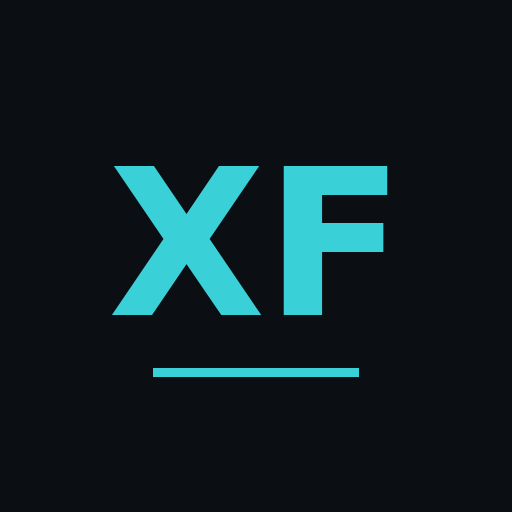
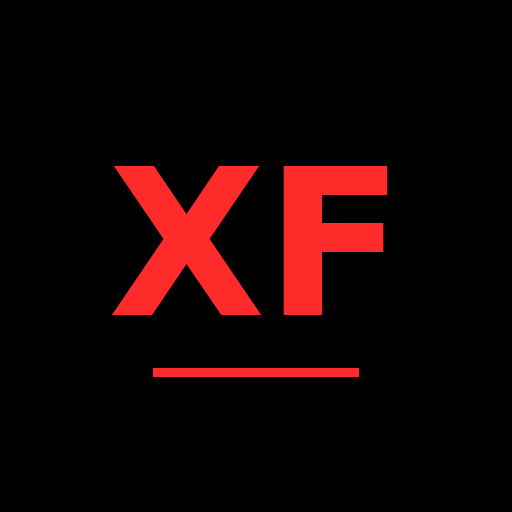
Xframe v3: tema negro/rojo, título X-FRAME ON AIR, nombres de ejercicios

Changed region(s): [[0.2188, 0.3125, 0.5, 0.625], [0.5312, 0.3125, 0.7812, 0.625], [0.2812, 0.7188, 0.7188, 0.75]]

diff --git a/index.html b/index.html
@@ -1,23 +1,23 @@
 <!DOCTYPE html>
 <html lang="es"><head><meta charset="utf-8">
 <meta name="viewport" content="width=device-width,initial-scale=1,viewport-fit=cover">
-<title>Xframe</title>
-<meta name="theme-color" content="#0b0e12">
+<title>X-FRAME ON AIR</title>
+<meta name="theme-color" content="#000000">
 <meta name="color-scheme" content="dark">
 <meta name="apple-mobile-web-app-capable" content="yes">
 <meta name="mobile-web-app-capable" content="yes">
 <meta name="apple-mobile-web-app-status-bar-style" content="black-translucent">
-<meta name="apple-mobile-web-app-title" content="Xframe">
+<meta name="apple-mobile-web-app-title" content="X-FRAME ON AIR">
 <link rel="apple-touch-icon" href="apple-touch-icon.png">
 <link rel="icon" type="image/png" href="icon-192.png">
 <link rel="manifest" href="manifest.webmanifest">
-<style>:root{--bg:#0b0e12;--card:#141a20;--card2:#1b232b;--line:#26313b;--tx:#e8eef3;--mu:#8d9aa6;--ac:#39d0d8;--acd:rgba(57,208,216,.14);--warn:#e07a6a;--safe-b:env(safe-area-inset-bottom,0px)}
+<style>:root{--bg:#000;--card:#0b0b0b;--card2:#141414;--line:#2e1414;--tx:#ff4d4d;--mu:#c26666;--ac:#ff2a2a;--acd:rgba(255,42,42,.12);--warn:#f2a33a;--safe-b:env(safe-area-inset-bottom,0px)}
 *{box-sizing:border-box;-webkit-tap-highlight-color:transparent}
 html,body{margin:0;background:var(--bg);color:var(--tx);font:17px/1.4 -apple-system,BlinkMacSystemFont,"Segoe UI",Roboto,"Helvetica Neue",Arial,sans-serif}
 body{padding-bottom:calc(84px + var(--safe-b))}
 body.timer-on{padding-bottom:calc(170px + var(--safe-b))}
-header{position:sticky;top:0;z-index:20;background:rgba(11,14,18,.96);border-bottom:1px solid var(--line);padding:calc(10px + env(safe-area-inset-top,0px)) 16px 10px;display:flex;align-items:center;justify-content:space-between}
-.logo{font-weight:900;letter-spacing:.18em;color:var(--ac);font-size:24px}
+header{position:sticky;top:0;z-index:20;background:rgba(0,0,0,.96);border-bottom:1px solid var(--line);padding:calc(10px + env(safe-area-inset-top,0px)) 16px 10px;display:flex;align-items:center;justify-content:space-between}
+.logo{font-weight:900;letter-spacing:.12em;color:var(--ac);font-size:21px;white-space:nowrap}
 .logo small{display:block;font-size:11px;letter-spacing:.16em;color:var(--mu);font-weight:600}
 .hbtn{background:var(--card2);color:var(--tx);border:1px solid var(--line);border-radius:12px;padding:10px 14px;font-size:15px;font-weight:600;position:relative}
 .hbtn .dot{position:absolute;top:-4px;right:-4px;width:12px;height:12px;border-radius:50%;background:var(--warn);border:2px solid var(--bg)}
@@ -28,11 +28,11 @@ h3{font-size:16px;margin:0 0 8px;color:var(--mu);text-transform:uppercase;letter
 .card{background:var(--card);border:1px solid var(--line);border-radius:16px;padding:14px;margin-bottom:12px}
 .days{display:flex;gap:6px;overflow-x:auto;padding-bottom:4px;margin-bottom:12px}
 .days button{flex:1 0 auto;min-width:50px;height:52px;border-radius:12px;border:1px solid var(--line);background:var(--card);color:var(--tx);font-size:16px;font-weight:700}
-.days button.on{background:var(--ac);color:#071214;border-color:var(--ac)}
+.days button.on{background:var(--ac);color:#000;border-color:var(--ac)}
 .days button .td{display:block;font-size:10px;font-weight:600;opacity:.8}
 .dayhead .t{font-size:13px;color:var(--ac);font-weight:700;letter-spacing:.1em;text-transform:uppercase}
 .note{border-left:3px solid var(--ac);background:var(--acd);padding:10px 12px;border-radius:8px;font-size:15px;margin:8px 0}
-.warn{border-left:3px solid var(--warn);background:rgba(224,122,106,.12);padding:10px 12px;border-radius:8px;font-size:15px;margin:8px 0}
+.warn{border-left:3px solid var(--warn);background:rgba(242,163,58,.12);padding:10px 12px;border-radius:8px;font-size:15px;margin:8px 0}
 .grp{font-size:13px;color:var(--ac);font-weight:700;letter-spacing:.08em;text-transform:uppercase;margin:16px 4px 6px}
 .ex .num{color:var(--mu);font-weight:700;font-size:14px}
 .ex .name{font-size:19px;font-weight:700;margin:2px 0}
@@ -40,27 +40,27 @@ h3{font-size:16px;margin:0 0 8px;color:var(--mu);text-transform:uppercase;letter
 .chip{display:inline-flex;align-items:center;gap:6px;border:1px solid var(--line);background:var(--card2);border-radius:999px;padding:6px 12px;font-size:14px;margin:8px 6px 0 0;color:var(--tx)}
 .chip.up{border-color:var(--ac);color:var(--ac);font-weight:700}
 button.chip{min-height:40px}
-.up-ic{display:inline-flex;align-items:center;justify-content:center;width:26px;height:26px;border-radius:50%;background:var(--ac);color:#071214;font-weight:900;font-size:15px;vertical-align:middle;margin-left:6px}
+.up-ic{display:inline-flex;align-items:center;justify-content:center;width:26px;height:26px;border-radius:50%;background:var(--ac);color:#000;font-weight:900;font-size:15px;vertical-align:middle;margin-left:6px}
 details{margin-top:8px}
 summary{color:var(--ac);font-size:15px;font-weight:600;padding:6px 0;cursor:pointer}
 details ul{margin:6px 0;padding-left:20px;font-size:15px}
 .set{display:grid;grid-template-columns:52px 1fr 1fr 58px;gap:8px;align-items:center;margin-top:10px}
 .set .lab{font-weight:800;font-size:15px;text-align:center;border-radius:10px;padding:8px 0;background:var(--card2);color:var(--mu)}
-.set .lab.ts{background:var(--ac);color:#071214}
-.set input{width:100%;height:52px;border-radius:12px;border:1px solid var(--line);background:#0e1318;color:var(--tx);font-size:21px;font-weight:700;text-align:center;padding:0 4px}
+.set .lab.ts{background:var(--ac);color:#000}
+.set input{width:100%;height:52px;border-radius:12px;border:1px solid var(--line);background:#050505;color:var(--tx);font-size:21px;font-weight:700;text-align:center;padding:0 4px}
 .set input:focus{outline:none;border-color:var(--ac)}
 .set input.bad{border-color:var(--warn)}
 .set .ok{height:52px;border-radius:12px;border:1px solid var(--line);background:var(--card2);color:var(--mu);font-size:24px;font-weight:900}
-.set.done .ok{background:var(--ac);color:#071214;border-color:var(--ac)}
-.set.done input{border-color:rgba(57,208,216,.5)}
+.set.done .ok{background:var(--ac);color:#000;border-color:var(--ac)}
+.set.done input{border-color:rgba(255,42,42,.5)}
 .sethint{grid-column:2 / 5;font-size:13px;color:var(--mu);margin-top:-4px}
 .colh{display:grid;grid-template-columns:52px 1fr 1fr 58px;gap:8px;font-size:12px;color:var(--mu);text-align:center;margin-top:10px;text-transform:uppercase;letter-spacing:.06em}
-.btn{display:block;width:100%;min-height:54px;border-radius:14px;border:1px solid var(--ac);background:var(--ac);color:#071214;font-size:18px;font-weight:800;margin:8px 0}
+.btn{display:block;width:100%;min-height:54px;border-radius:14px;border:1px solid var(--ac);background:var(--ac);color:#000;font-size:18px;font-weight:800;margin:8px 0}
 .btn.sec{background:transparent;color:var(--ac)}
 .btn.ghost{background:var(--card2);border-color:var(--line);color:var(--tx)}
 .btn.danger{background:transparent;border-color:var(--warn);color:var(--warn)}
 .row{display:flex;gap:8px}.row>*{flex:1}
-nav{position:fixed;left:0;right:0;bottom:0;z-index:30;background:rgba(14,18,23,.98);border-top:1px solid var(--line);display:flex;padding-bottom:var(--safe-b)}
+nav{position:fixed;left:0;right:0;bottom:0;z-index:30;background:rgba(0,0,0,.98);border-top:1px solid var(--line);display:flex;padding-bottom:var(--safe-b)}
 nav button{flex:1;height:68px;background:none;border:none;color:var(--mu);font-size:13px;font-weight:700}
 nav button .i{display:block;font-size:22px;line-height:1.2}
 nav button.on{color:var(--ac)}
@@ -69,14 +69,14 @@ nav button.on{color:var(--ac)}
 #timer .tt{font-size:34px;font-weight:900;font-variant-numeric:tabular-nums;color:var(--ac);min-width:92px}
 #timer .tl{flex:1;min-width:0;font-size:12px;color:var(--mu);line-height:1.25;display:-webkit-box;-webkit-line-clamp:3;-webkit-box-orient:vertical;overflow:hidden}
 #timer button{height:48px;min-width:48px;border-radius:12px;border:1px solid var(--line);background:var(--card);color:var(--tx);font-size:15px;font-weight:700}
-#timer.end{background:var(--ac)} #timer.end .tt,#timer.end .tl{color:#071214}
-#banner{position:fixed;top:calc(12px + env(safe-area-inset-top,0px));left:12px;right:12px;z-index:50;background:#0e1a1c;border:2px solid var(--ac);border-radius:18px;padding:16px;display:none;box-shadow:0 10px 40px rgba(0,0,0,.6)}
+#timer.end{background:var(--ac)} #timer.end .tt,#timer.end .tl{color:#000}
+#banner{position:fixed;top:calc(12px + env(safe-area-inset-top,0px));left:12px;right:12px;z-index:50;background:#120404;border:2px solid var(--ac);border-radius:18px;padding:16px;display:none;box-shadow:0 10px 40px rgba(0,0,0,.6)}
 #banner.on{display:block;animation:pop .35s ease}
 #banner .bt{font-size:22px;font-weight:900;color:var(--ac)}
 @keyframes pop{from{transform:translateY(-20px);opacity:0}to{transform:none;opacity:1}}
-#toast{position:fixed;left:50%;transform:translateX(-50%);bottom:calc(160px + var(--safe-b));z-index:60;background:var(--tx);color:#071214;padding:10px 16px;border-radius:12px;font-weight:700;display:none;max-width:90%;text-align:center}
+#toast{position:fixed;left:50%;transform:translateX(-50%);bottom:calc(160px + var(--safe-b));z-index:60;background:var(--tx);color:#000;padding:10px 16px;border-radius:12px;font-weight:700;display:none;max-width:90%;text-align:center}
 .field{display:flex;flex-direction:column;gap:4px;margin-bottom:10px;font-size:14px;color:var(--mu)}
-.field input,.field select{height:52px;border-radius:12px;border:1px solid var(--line);background:#0e1318;color:var(--tx);font-size:19px;padding:0 12px;width:100%}
+.field input,.field select{height:52px;border-radius:12px;border:1px solid var(--line);background:#050505;color:var(--tx);font-size:19px;padding:0 12px;width:100%}
 .stats{display:grid;grid-template-columns:1fr 1fr;gap:8px}
 .stat{background:var(--card2);border-radius:12px;padding:10px 12px}
 .stat .v{font-size:22px;font-weight:800}
@@ -89,18 +89,18 @@ svg text{fill:var(--mu);font-size:10px}
 .hx .r{color:var(--mu);font-size:14px;text-align:right}
 .cfg{display:grid;grid-template-columns:1fr 1fr;gap:8px;margin-top:6px}
 .cfg label{font-size:12px;color:var(--mu)}
-.cfg select,.cfg input{width:100%;height:46px;border-radius:10px;border:1px solid var(--line);background:#0e1318;color:var(--tx);font-size:17px;padding:0 8px}
+.cfg select,.cfg input{width:100%;height:46px;border-radius:10px;border:1px solid var(--line);background:#050505;color:var(--tx);font-size:17px;padding:0 8px}
 .cool{display:flex;justify-content:space-between;align-items:center}
 .cool .ok{width:58px;height:52px;border-radius:12px;border:1px solid var(--line);background:var(--card2);color:var(--mu);font-size:24px;font-weight:900}
-.cool.done .ok{background:var(--ac);color:#071214}
+.cool.done .ok{background:var(--ac);color:#000}
 </style></head>
 <body>
-<header><div class="logo">XFRAME<small>ON AIR v2</small></div><button class="hbtn" data-tab="ajustes">💾 Copia<span class="dot" id="bkdot" style="display:none"></span></button></header>
+<header><div class="logo">X-FRAME ON AIR</div><button class="hbtn" data-tab="ajustes">💾 Copia<span class="dot" id="bkdot" style="display:none"></span></button></header>
 <main></main>
 <div id="timer"><div class="tt" id="tt">0:00</div><div class="tl" id="tl"></div><button onclick="XFt(-15)">−15</button><button onclick="XFt(15)">+15</button><button onclick="XFt(0)">✕</button></div>
 <div id="banner"></div><div id="toast"></div>
 <nav><button data-tab="entreno"><span class="i">🏋</span>Entreno</button><button data-tab="peso"><span class="i">⚖</span>Peso</button><button data-tab="historial"><span class="i">📈</span>Historial</button><button data-tab="ajustes"><span class="i">⚙</span>Ajustes</button></nav>
-<script>// X-FRAME ON AIR v2 — transcrito de /workspace/xframe/X-FRAME_ON_AIR_v2.txt
+<script>// X-FRAME ON AIR v2 — rutina oficial, transcrita de /workspace/xframe/X-FRAME_ON_AIR_v2.txt
 // S(tipo, reps, RIR, nota, % de descarga respecto a la serie anterior)
 function S(t,reps,rir,note,pct){var m=String(reps).match(/(\d+)\D+(\d+)/);return{t:t,reps:reps,rir:rir,note:note||'',pct:(pct===undefined?null:pct),min:m?+m[1]:null,max:m?+m[2]:null};}
 var PROTOCOLO=[
@@ -115,12 +115,12 @@ var PROTOCOLO=[
 var ROUTINE=[
 {k:'lun',dow:1,day:'Lunes',title:'PUSH A',sub:'Pecho · Deltoides lateral · Tríceps · Core',ex:[
  {id:'lun01',n:'Press inclinado 30° con mancuernas',eq:'Mancuernas · Pecho superior · Ejercicio principal',warm:'A1 (10–12 × 50 %) · A2 (5 × 70 %) · A3 (2 × 85–90 %)',cues:['Bajar controlado hasta notar estiramiento del pecho, codos a ~45–60°.'],sets:[S('TS','6–8','0','RIR 0 técnico, sin rest-pause (con mancuernas pesadas no es seguro)'),S('BO1','8–10','1','mancuernas un escalón más ligeras (~−10 %)',10),S('BO2','8–10','1','un escalón más ligeras que el BO1 (−10–20 %)',15)],rest:'2–3 min',restS:150,inc:2,jump:2},
- {id:'lun02',n:'Press de banca convergente',eq:'Hammer Strength · Pecho medio',warm:'1 × 5 reps al 70 %',cues:[],sets:[S('TS','6–8','0'),S('BO','8–10','1','−10 %',10)],rest:'2–3 min',restS:150},
+ {id:'lun02',n:'Press de banca convergente plano',eq:'Hammer Strength · Pecho medio · Banco plano',warm:'1 × 5 reps al 70 %',cues:[],sets:[S('TS','6–8','0'),S('BO','8–10','1','−10 %',10)],rest:'2–3 min',restS:150},
  {id:'lun03',n:'Pec-deck / aperturas en máquina',eq:'Life Fitness / Gym80 · Pectoral',warm:'',cues:[],sets:[S('TS','8–10','0','+ 3–5 parciales en estiramiento'),S('BO','10–12','1','−15 %',15)],rest:'90–120 s',restS:105},
  {id:'lun04',n:'Elevación lateral unilateral en polea baja',eq:'Deltoides lateral',warm:'1 × 6 reps ligeras con el brazo izquierdo',cues:[],uni:'por brazo',sets:[S('TS','8–10','0','por brazo · + 3–5 parciales abajo, si son seguras'),S('BO','10–12','1','por brazo · −15 %',15)],rest:'90–120 s',restS:105},
  {id:'lun05',n:'Elevación lateral en máquina',eq:'Máquina · Deltoides lateral',warm:'',cues:[],sets:[S('TS','8–10','0'),S('BO','10–12','1','−15 %',15)],rest:'90–120 s',restS:105},
  {id:'lun06',n:'Extensión de tríceps overhead en polea',eq:'Cabeza larga del tríceps',warm:'1 × 6 reps al 70 %',cues:[],sets:[S('TS','8–10','0','+ 3–5 parciales en estiramiento, si son seguras'),S('BO','10–12','1','−10 %',10)],rest:'90–120 s',restS:105},
- {id:'lun07',n:'Pushdown en polea (nuevo)',eq:'Barra recta o cuerda · Cabeza lateral del tríceps',warm:'',cues:[],sets:[S('TS','10–12','0','codos fijos al costado'),S('BO','12–15','1','−15 %',15)],rest:'90 s',restS:90},
+ {id:'lun07',n:'Pushdown unilateral en polea',eq:'Agarre a una mano · Cabeza lateral del tríceps',warm:'',cues:['Empezar por el brazo izquierdo; el derecho iguala las repeticiones limpias.'],uni:'por brazo',sets:[S('TS','10–12','0','por brazo · codo fijo al costado'),S('BO','12–15','1','por brazo · −15 %',15)],rest:'90 s',restS:90},
  {id:'lun08',n:'Crunch abdominal en máquina',eq:'Gym80 · Core',warm:'',cues:[],sets:[S('TS','10–12','0'),S('BO','12–15','1','% no indicado en la rutina',12.5)],rest:'60–90 s',restS:75}
 ]},
 {k:'mar',dow:2,day:'Martes',title:'PULL A',sub:'Dorsales · Espalda alta · Deltoides posterior · Bíceps · Antebrazo',ex:[
@@ -143,16 +143,16 @@ var ROUTINE=[
 {k:'jue',dow:4,day:'Jueves',title:'UPPER BODY',sub:'Hombros · Dorsal · Espalda alta · Deltoides posterior · Pecho superior · Core',ex:[
  {id:'jue01',n:'Press de hombros en máquina',eq:'Hammer Strength / Gym80 · Deltoides anterior',warm:'A1 (10–12 × 50 %) · A2 (5 × 70 %) · A3 (2 × 85 %)',cues:['Rest-pause solo si no compromete la estabilidad del hombro.'],sets:[S('TS','6–8','0','RIR 0 técnico'),S('BO','8–10','1','−10 %',10)],rest:'2–3 min',restS:150},
  {id:'jue02',n:'Remo alto isolateral de palanca (remo-jalón)',eq:'Máquina de discos · Dorsal y espalda alta',warm:'1 × 5 reps al 70 %',cues:['Tirar de arriba hacia abajo y atrás, codos hacia las costillas, pecho alto, estiramiento completo arriba.'],sets:[S('TS','6–8','0'),S('BO','8–10','1','−10 %',10)],rest:'2–3 min',restS:150},
- {id:'jue03',n:'Remo bajo isolateral de palanca, unilateral (nuevo)',eq:'Hammer Strength Iso-Lateral Low Row · Agarre bajo · Dorsal',warm:'',cues:['Pecho apoyado en el pad, un brazo cada vez.','Codo pegado al cuerpo, tirar hacia la cadera, estiramiento completo delante.','Empezar por el lado izquierdo.'],uni:'por lado',sets:[S('TS','8–10','0','por lado'),S('BO','10–12','1','por lado · −10 %',10)],rest:'2 min',restS:120},
+ {id:'jue03',n:'Remo bajo isolateral de palanca, unilateral',eq:'Hammer Strength Iso-Lateral Low Row · Agarre bajo · Dorsal',warm:'',cues:['Pecho apoyado en el pad, un brazo cada vez.','Codo pegado al cuerpo, tirar hacia la cadera, estiramiento completo delante.','Empezar por el lado izquierdo.'],uni:'por lado',sets:[S('TS','8–10','0','por lado'),S('BO','10–12','1','por lado · −10 %',10)],rest:'2 min',restS:120},
  {id:'jue04',n:'Press inclinado 30° en multipower',eq:'Multipower · Pecho superior',warm:'1 × 5 reps al 70 %',cues:['Bajar a la parte alta del pecho, pausa breve sin rebotar.'],sets:[S('TS','6–8','0'),S('BO1','8–10','1','−15 %',15),S('BO2','8–10','1','−10–20 % respecto al BO1',15)],rest:'2–3 min',restS:150},
  {id:'jue05',n:'Elevación lateral en máquina',eq:'Máquina · Deltoides lateral',warm:'',cues:[],sets:[S('TS','8–10','0','+ 3–5 parciales abajo, si son seguras'),S('BO','10–12','1','−15 %',15)],rest:'90–120 s',restS:105},
- {id:'jue06',n:'Pec-deck invertido o face pull (nuevo)',eq:'Life Fitness / Gym80 o polea · Deltoides posterior',warm:'',cues:[],sets:[S('TS','12–15','0','+ 3–5 parciales controladas'),S('BO','15–20','1','−15 %',15)],rest:'90 s',restS:90},
+ {id:'jue06',n:'Pec-deck invertido o face pull',eq:'Life Fitness / Gym80 o polea · Deltoides posterior',warm:'',cues:[],sets:[S('TS','12–15','0','+ 3–5 parciales controladas'),S('BO','15–20','1','−15 %',15)],rest:'90 s',restS:90},
  {id:'jue07',n:'Crunch abdominal en máquina',eq:'Gym80 · Core',warm:'',cues:[],sets:[S('TS','10–12','0'),S('BO','12–15','1','% no indicado en la rutina',12.5)],rest:'60–90 s',restS:75}
 ]},
 {k:'vie',dow:5,day:'Viernes',title:'LEGS B',sub:'Cadena posterior · Isquios · Cuádriceps · Gemelos',ex:[
  {id:'vie01',n:'Peso muerto rumano',eq:'Multipower / máquina de palanca guiada',warm:'A1 (10–12 × 50 %) · A2 (5 × 70 %) · A3 (2 × 85–90 %)',cues:[],sets:[S('TS','6–8','1','RIR 1 recomendado, sin sacrificar técnica (sin rest-pause)'),S('BO','8–10','1–2','−10 %',10)],rest:'2–3 min',restS:150},
  {id:'vie02',n:'Curl femoral tumbado',eq:'Life Fitness / Gym80 · Isquios',warm:'1 × 5 reps al 70 %',cues:[],sets:[S('TS','8–10','0','+ 3–5 parciales en estiramiento, si son seguras'),S('BO1','10–12','1','−15 %',15),S('BO2','10–12','1','−10–20 % respecto al BO1',15)],rest:'90–120 s',restS:105},
- {id:'vie03',n:'Prensa inclinada unilateral',eq:'Hammer Strength / Gym80 · Cuádriceps',warm:'',cues:[],uni:'por pierna',sets:[S('TS','8–10','0','por pierna · RIR 0 técnico'),S('BO','10–12','1','por pierna · −15 %',15)],rest:'2 min',restS:120},
+ {id:'vie03',n:'Prensa inclinada a 45°',eq:'Hammer Strength · Cuádriceps · Bilateral (dos piernas)',warm:'',cues:['Pies a la anchura de la cadera en la plataforma, bajar controlado hasta la máxima profundidad sin despegar la zona lumbar del respaldo.'],sets:[S('TS','8–10','0'),S('BO','10–12','1','−15 %',15)],rest:'2 min',restS:120},
  {id:'vie04',n:'Extensión de cuádriceps',eq:'Gym80',warm:'',cues:[],sets:[S('TS','10–12','0'),S('BO','12–15','1','−15 %',15)],rest:'90–120 s',restS:105},
  {id:'vie05',n:'Elevación de gemelos sentado',eq:'Life Fitness / Gym80',warm:'',cues:[],sets:[S('TS','10–12','0','+ 3–5 parciales abajo, si son seguras'),S('BO1','12–15','1','−15 %',15),S('BO2','12–15','1','−10–20 % respecto al BO1',15)],rest:'90–120 s',restS:105}
 ]},
@@ -246,7 +246,7 @@ function startTimer(sec,label){if(!sec)return;tm.end=Date.now()+sec*1000;tm.labe
   document.body.classList.add('timer-on');$('#timer').classList.add('on');$('#timer').classList.remove('end');
   clearInterval(tm.iv);tm.iv=setInterval(tick,250);tick();}
 function tick(){var left=(tm.end-Date.now())/1000;$('#tt').textContent=mmss(left);$('#tl').innerHTML=esc(tm.label);
-  if(left<=0&&!tm.fired){tm.fired=true;$('#timer').classList.add('end');$('#tt').textContent='¡YA!';beep();vib([300,150,300,150,300]);notify('XFRAME · Descanso terminado','A por la siguiente serie: '+tm.label);
+  if(left<=0&&!tm.fired){tm.fired=true;$('#timer').classList.add('end');$('#tt').textContent='¡YA!';beep();vib([300,150,300,150,300]);notify('X-FRAME · Descanso terminado','A por la siguiente serie: '+tm.label);
     setTimeout(function(){if(tm.fired)stopTimer();},6000);}}
 function stopTimer(){clearInterval(tm.iv);tm.fired=false;tm.end=0;$('#timer').classList.remove('on','end');document.body.classList.remove('timer-on');}
 document.addEventListener('visibilitychange',function(){if(!document.hidden&&tm.end)tick();});
@@ -324,13 +324,13 @@ function chart(a){var W=360,H=210,L=34,R=8,T=10,B=24,ws=a.ws,x0=ws[0].d,x1=GOAL_
   var span=Math.max(1,dd(x0,x1)),ys=ws.map(function(x){return x.kg;});var ymin=Math.floor(Math.min.apply(null,ys.concat([GOAL_LO]))-0.5),ymax=Math.ceil(Math.max.apply(null,ys)+0.5);
   function X(d){return L+(W-L-R)*dd(x0,d)/span;}function Y(v){return T+(H-T-B)*(ymax-v)/(ymax-ymin);}
   var s='<svg viewBox="0 0 '+W+' '+H+'" width="100%" style="margin-top:10px">';
-  s+='<rect x="'+L+'" y="'+Y(GOAL_HI)+'" width="'+(W-L-R)+'" height="'+(Y(GOAL_LO)-Y(GOAL_HI))+'" fill="rgba(57,208,216,.15)"/>';
-  var step=Math.max(1,Math.ceil((ymax-ymin)/6));for(var v=ymin;v<=ymax;v+=step){s+='<line x1="'+L+'" x2="'+(W-R)+'" y1="'+Y(v)+'" y2="'+Y(v)+'" stroke="#26313b" stroke-width="1"/><text x="'+(L-4)+'" y="'+(Y(v)+3)+'" text-anchor="end">'+v+'</text>';}
+  s+='<rect x="'+L+'" y="'+Y(GOAL_HI)+'" width="'+(W-L-R)+'" height="'+(Y(GOAL_LO)-Y(GOAL_HI))+'" fill="rgba(255,42,42,.13)"/>';
+  var step=Math.max(1,Math.ceil((ymax-ymin)/6));for(var v=ymin;v<=ymax;v+=step){s+='<line x1="'+L+'" x2="'+(W-R)+'" y1="'+Y(v)+'" y2="'+Y(v)+'" stroke="#2a1212" stroke-width="1"/><text x="'+(L-4)+'" y="'+(Y(v)+3)+'" text-anchor="end">'+v+'</text>';}
   var ticks=[x0,a.last.d,GOAL_DATE];var seen={};ticks.forEach(function(d,i){if(seen[d])return;seen[d]=1;s+='<text x="'+X(d)+'" y="'+(H-6)+'" text-anchor="'+(i===0?'start':i===2?'end':'middle')+'">'+hshort(d)+'</text>';});
-  if(a.tr){s+='<line x1="'+X(a.last.d)+'" y1="'+Y(a.tr.at(a.last.d))+'" x2="'+X(GOAL_DATE)+'" y2="'+Y(a.proj)+'" stroke="#39d0d8" stroke-width="2" stroke-dasharray="5 5" opacity=".7"/>';}
+  if(a.tr){s+='<line x1="'+X(a.last.d)+'" y1="'+Y(a.tr.at(a.last.d))+'" x2="'+X(GOAL_DATE)+'" y2="'+Y(a.proj)+'" stroke="#ff2a2a" stroke-width="2" stroke-dasharray="5 5" opacity=".7"/>';}
   var path=ws.map(function(x,i){return(i?'L':'M')+X(x.d).toFixed(1)+' '+Y(ma7(ws,x.d)).toFixed(1);}).join(' ');
-  s+='<path d="'+path+'" fill="none" stroke="#39d0d8" stroke-width="2.5"/>';
-  ws.forEach(function(x){s+='<circle cx="'+X(x.d).toFixed(1)+'" cy="'+Y(x.kg).toFixed(1)+'" r="3" fill="#8d9aa6"/>';});
+  s+='<path d="'+path+'" fill="none" stroke="#ff2a2a" stroke-width="2.5"/>';
+  ws.forEach(function(x){s+='<circle cx="'+X(x.d).toFixed(1)+'" cy="'+Y(x.kg).toFixed(1)+'" r="3" fill="#c26666"/>';});
   return s+'</svg>';}
 // ---------- historial ----------
 function vHist(){if(ui.hist)return vHistEx(ui.hist);
@@ -345,9 +345,9 @@ function vHistEx(id){var e=EX[id],t=topHist(id),h='<button class="btn ghost" dat
   if(!t.length)return h+'<p class="mu">Sin registros todavía.</p></div>';
   if(t.length>1){var W=360,H=170,L=34,R=8,T=10,B=22,ws=t.map(function(p){return p.w;}),mn=Math.min.apply(null,ws),mx=Math.max.apply(null,ws);if(mn===mx){mn-=2.5;mx+=2.5;}
     var X=function(i){return L+(W-L-R)*i/(t.length-1);},Y=function(v){return T+(H-T-B)*(mx-v)/(mx-mn);};
-    var s='<svg viewBox="0 0 '+W+' '+H+'" width="100%" style="margin-top:8px">';[mn,(mn+mx)/2,mx].forEach(function(v){s+='<line x1="'+L+'" x2="'+(W-R)+'" y1="'+Y(v)+'" y2="'+Y(v)+'" stroke="#26313b"/><text x="'+(L-4)+'" y="'+(Y(v)+3)+'" text-anchor="end">'+fmt(v,1)+'</text>';});
-    s+='<path d="'+t.map(function(p,i){return(i?'L':'M')+X(i).toFixed(1)+' '+Y(p.w).toFixed(1);}).join(' ')+'" fill="none" stroke="#39d0d8" stroke-width="2.5"/>';
-    t.forEach(function(p,i){s+='<circle cx="'+X(i)+'" cy="'+Y(p.w)+'" r="4" fill="#39d0d8"/><text x="'+X(i)+'" y="'+(Y(p.w)-8)+'" text-anchor="middle">'+p.r+'</text>';});
+    var s='<svg viewBox="0 0 '+W+' '+H+'" width="100%" style="margin-top:8px">';[mn,(mn+mx)/2,mx].forEach(function(v){s+='<line x1="'+L+'" x2="'+(W-R)+'" y1="'+Y(v)+'" y2="'+Y(v)+'" stroke="#2a1212"/><text x="'+(L-4)+'" y="'+(Y(v)+3)+'" text-anchor="end">'+fmt(v,1)+'</text>';});
+    s+='<path d="'+t.map(function(p,i){return(i?'L':'M')+X(i).toFixed(1)+' '+Y(p.w).toFixed(1);}).join(' ')+'" fill="none" stroke="#ff2a2a" stroke-width="2.5"/>';
+    t.forEach(function(p,i){s+='<circle cx="'+X(i)+'" cy="'+Y(p.w)+'" r="4" fill="#ff2a2a"/><text x="'+X(i)+'" y="'+(Y(p.w)-8)+'" text-anchor="middle">'+p.r+'</text>';});
     s+='<text x="'+L+'" y="'+(H-5)+'">'+hshort(t[0].date)+'</text><text x="'+(W-R)+'" y="'+(H-5)+'" text-anchor="end">'+hshort(t[t.length-1].date)+'</text></svg>';
     h+=s+'<div class="mu sm">Línea: kg del top set · número: reps</div>';}
   h+='</div><div class="card list"><h3>Sesiones</h3>'+t.slice().reverse().map(function(p){return'<div class="it"><span>'+hum(p.date)+'</span><span>'+p.all.map(function(x,i){return x.done&&x.w!==''?'<span class="'+(i?'mu':'ac')+'">'+(e.sets[i]?e.sets[i].t:'')+' '+esc(x.w)+'×'+esc(x.r)+'</span>':'';}).filter(Boolean).join(' · ')+'</span></div>';}).join('')+'</div>';
@@ -366,9 +366,9 @@ function vAjustes(){var lb=st.lastBackup?new Date(st.lastBackup):null;
      '<label>Descanso (s)<input data-c="rest" inputmode="numeric" value="'+c.rest+'"></label>'+
      e.sets.map(function(s,i){return i&&c.pct[i]!=null?'<label>'+s.t+' −% vs '+e.sets[i-1].t+'<input data-c="pct" data-i="'+i+'" inputmode="decimal" value="'+fmt(c.pct[i],1)+'"></label>':'';}).join('')+
      '</div><button class="btn ghost" data-act="cfgreset" data-id="'+e.id+'">Restablecer valores de la rutina</button></details>';});});
-  h+='</div><div class="card"><h3>Protocolo X-FRAME ON AIR v2</h3>'+PROTOCOLO.map(function(p){return'<details><summary>'+esc(p[0])+'</summary><p class="sm">'+esc(p[1])+'</p></details>';}).join('')+'</div>';
+  h+='</div><div class="card"><h3>Protocolo X-FRAME ON AIR</h3>'+PROTOCOLO.map(function(p){return'<details><summary>'+esc(p[0])+'</summary><p class="sm">'+esc(p[1])+'</p></details>';}).join('')+'</div>';
   h+='<div class="card"><h3>Próximamente</h3><ul class="sm mu"><li>Leer la rutina desde un PDF.</li><li>Historial de versiones de rutina.</li></ul></div>';
-  h+='<div class="card"><h3>Zona peligrosa</h3><button class="btn danger" data-act="wipe">Borrar todos los datos</button></div><div class="mu sm" style="text-align:center;margin:10px 0 20px">XFRAME · rutina X-FRAME ON AIR v2</div>';
+  h+='<div class="card"><h3>Zona peligrosa</h3><button class="btn danger" data-act="wipe">Borrar todos los datos</button></div><div class="mu sm" style="text-align:center;margin:10px 0 20px">X-FRAME ON AIR</div>';
   return h;}
 // ---------- eventos ----------
 document.addEventListener('click',function(ev){var b=ev.target.closest('[data-act],[data-tab]');
@@ -416,7 +416,7 @@ function markDone(row){var dr=draft(ui.day),id=row.dataset.id,i=+row.dataset.i,e
   var ce=ceilOf(id);
   if(i===0&&ce!=null&&num(s.r)>=ce){var nx=r2(num(s.w)+cfg(id).jump);
     banner('¡Has superado tu techo!','<b>'+esc(e.n)+'</b><br>'+esc(s.w)+' kg × '+esc(s.r)+' (techo '+ce+'). La próxima sesión: <b class="ac">sube a '+fmt(nx)+' kg</b>.');
-    notify('XFRAME · ¡Techo superado!',e.n+': próxima sesión sube a '+fmt(nx)+' kg');}
+    notify('X-FRAME · ¡Techo superado!',e.n+': próxima sesión sube a '+fmt(nx)+' kg');}
   var c=cfg(id),lbl=e.n+' · '+e.sets[i].t+' hecha';
   if(e.ss==='A'){var bid=id.replace(/a$/,'b');lbl='→ Ahora '+(EX[bid]?EX[bid].n:'B');}
   startTimer(c.rest,lbl);}
@@ -429,11 +429,11 @@ function backupBlob(){return new Blob([JSON.stringify({app:'XFRAME',version:1,ex
 function bname(){return'xframe-copia-'+today()+'.json';}
 function exportBackup(){var url=URL.createObjectURL(backupBlob()),a=document.createElement('a');a.href=url;a.download=bname();document.body.appendChild(a);a.click();setTimeout(function(){URL.revokeObjectURL(url);a.remove();},1500);
   st.lastBackup=new Date().toISOString();save();render();toast('Copia exportada');}
-function shareBackup(){try{var f=new File([backupBlob()],bname(),{type:'application/json'});if(navigator.canShare&&navigator.canShare({files:[f]})){navigator.share({files:[f],title:'Copia XFRAME'}).then(function(){st.lastBackup=new Date().toISOString();save();render();}).catch(function(){});}else exportBackup();}catch(e){exportBackup();}}
+function shareBackup(){try{var f=new File([backupBlob()],bname(),{type:'application/json'});if(navigator.canShare&&navigator.canShare({files:[f]})){navigator.share({files:[f],title:'Copia X-FRAME'}).then(function(){st.lastBackup=new Date().toISOString();save();render();}).catch(function(){});}else exportBackup();}catch(e){exportBackup();}}
 function importFile(f){if(!f)return;var rd=new FileReader();rd.onload=function(){try{var j=JSON.parse(rd.result),d=j.data||j;
   if(!Array.isArray(d.weights)||!Array.isArray(d.sessions))throw 0;
   if(!confirm('Importar copia del '+(j.exported?hum(j.exported.slice(0,10)):'?')+': '+d.weights.length+' pesos y '+d.sessions.length+' sesiones. Sustituye los datos actuales. ¿Continuar?'))return;
-  st=Object.assign(blank(),d);save();render();toast('Copia importada');}catch(e){alert('El archivo no es una copia válida de XFRAME.');}};rd.readAsText(f);}
+  st=Object.assign(blank(),d);save();render();toast('Copia importada');}catch(e){alert('El archivo no es una copia válida de X-FRAME.');}};rd.readAsText(f);}
 window.XFt=function(d){if(!d||!tm.end){stopTimer();return;}if(tm.fired){tm.end=Date.now();tm.fired=false;$('#timer').classList.remove('end');}tm.end+=d*1000;if(tm.end<Date.now())tm.end=Date.now();clearInterval(tm.iv);tm.iv=setInterval(tick,250);tick();};
 // API de pruebas
 window.XF={backoff:backoff,state:function(){return st;},cfg:cfg,suggestion:suggestion,fatigue:fatigue,analysis:analysis,render:render,go:function(t,d){ui.tab=t;if(d!==undefined)ui.day=d;render();}};

diff --git a/sw.js b/sw.js
@@ -1,5 +1,5 @@
 // Xframe service worker — caché completa para uso sin conexión
-const CACHE='xframe-45b0f8bedc';
+const CACHE='xframe-v3-4148b555ec';
 const FILES=["./", "index.html", "manifest.webmanifest", "icon-192.png", "icon-512.png", "apple-touch-icon.png"];
 self.addEventListener('install',e=>{e.waitUntil(caches.open(CACHE).then(c=>c.addAll(FILES)).then(()=>self.skipWaiting()));});
 self.addEventListener('activate',e=>{e.waitUntil(caches.keys().then(ks=>Promise.all(ks.filter(k=>k!==CACHE).map(k=>caches.delete(k)))).then(()=>self.clients.claim()));});
